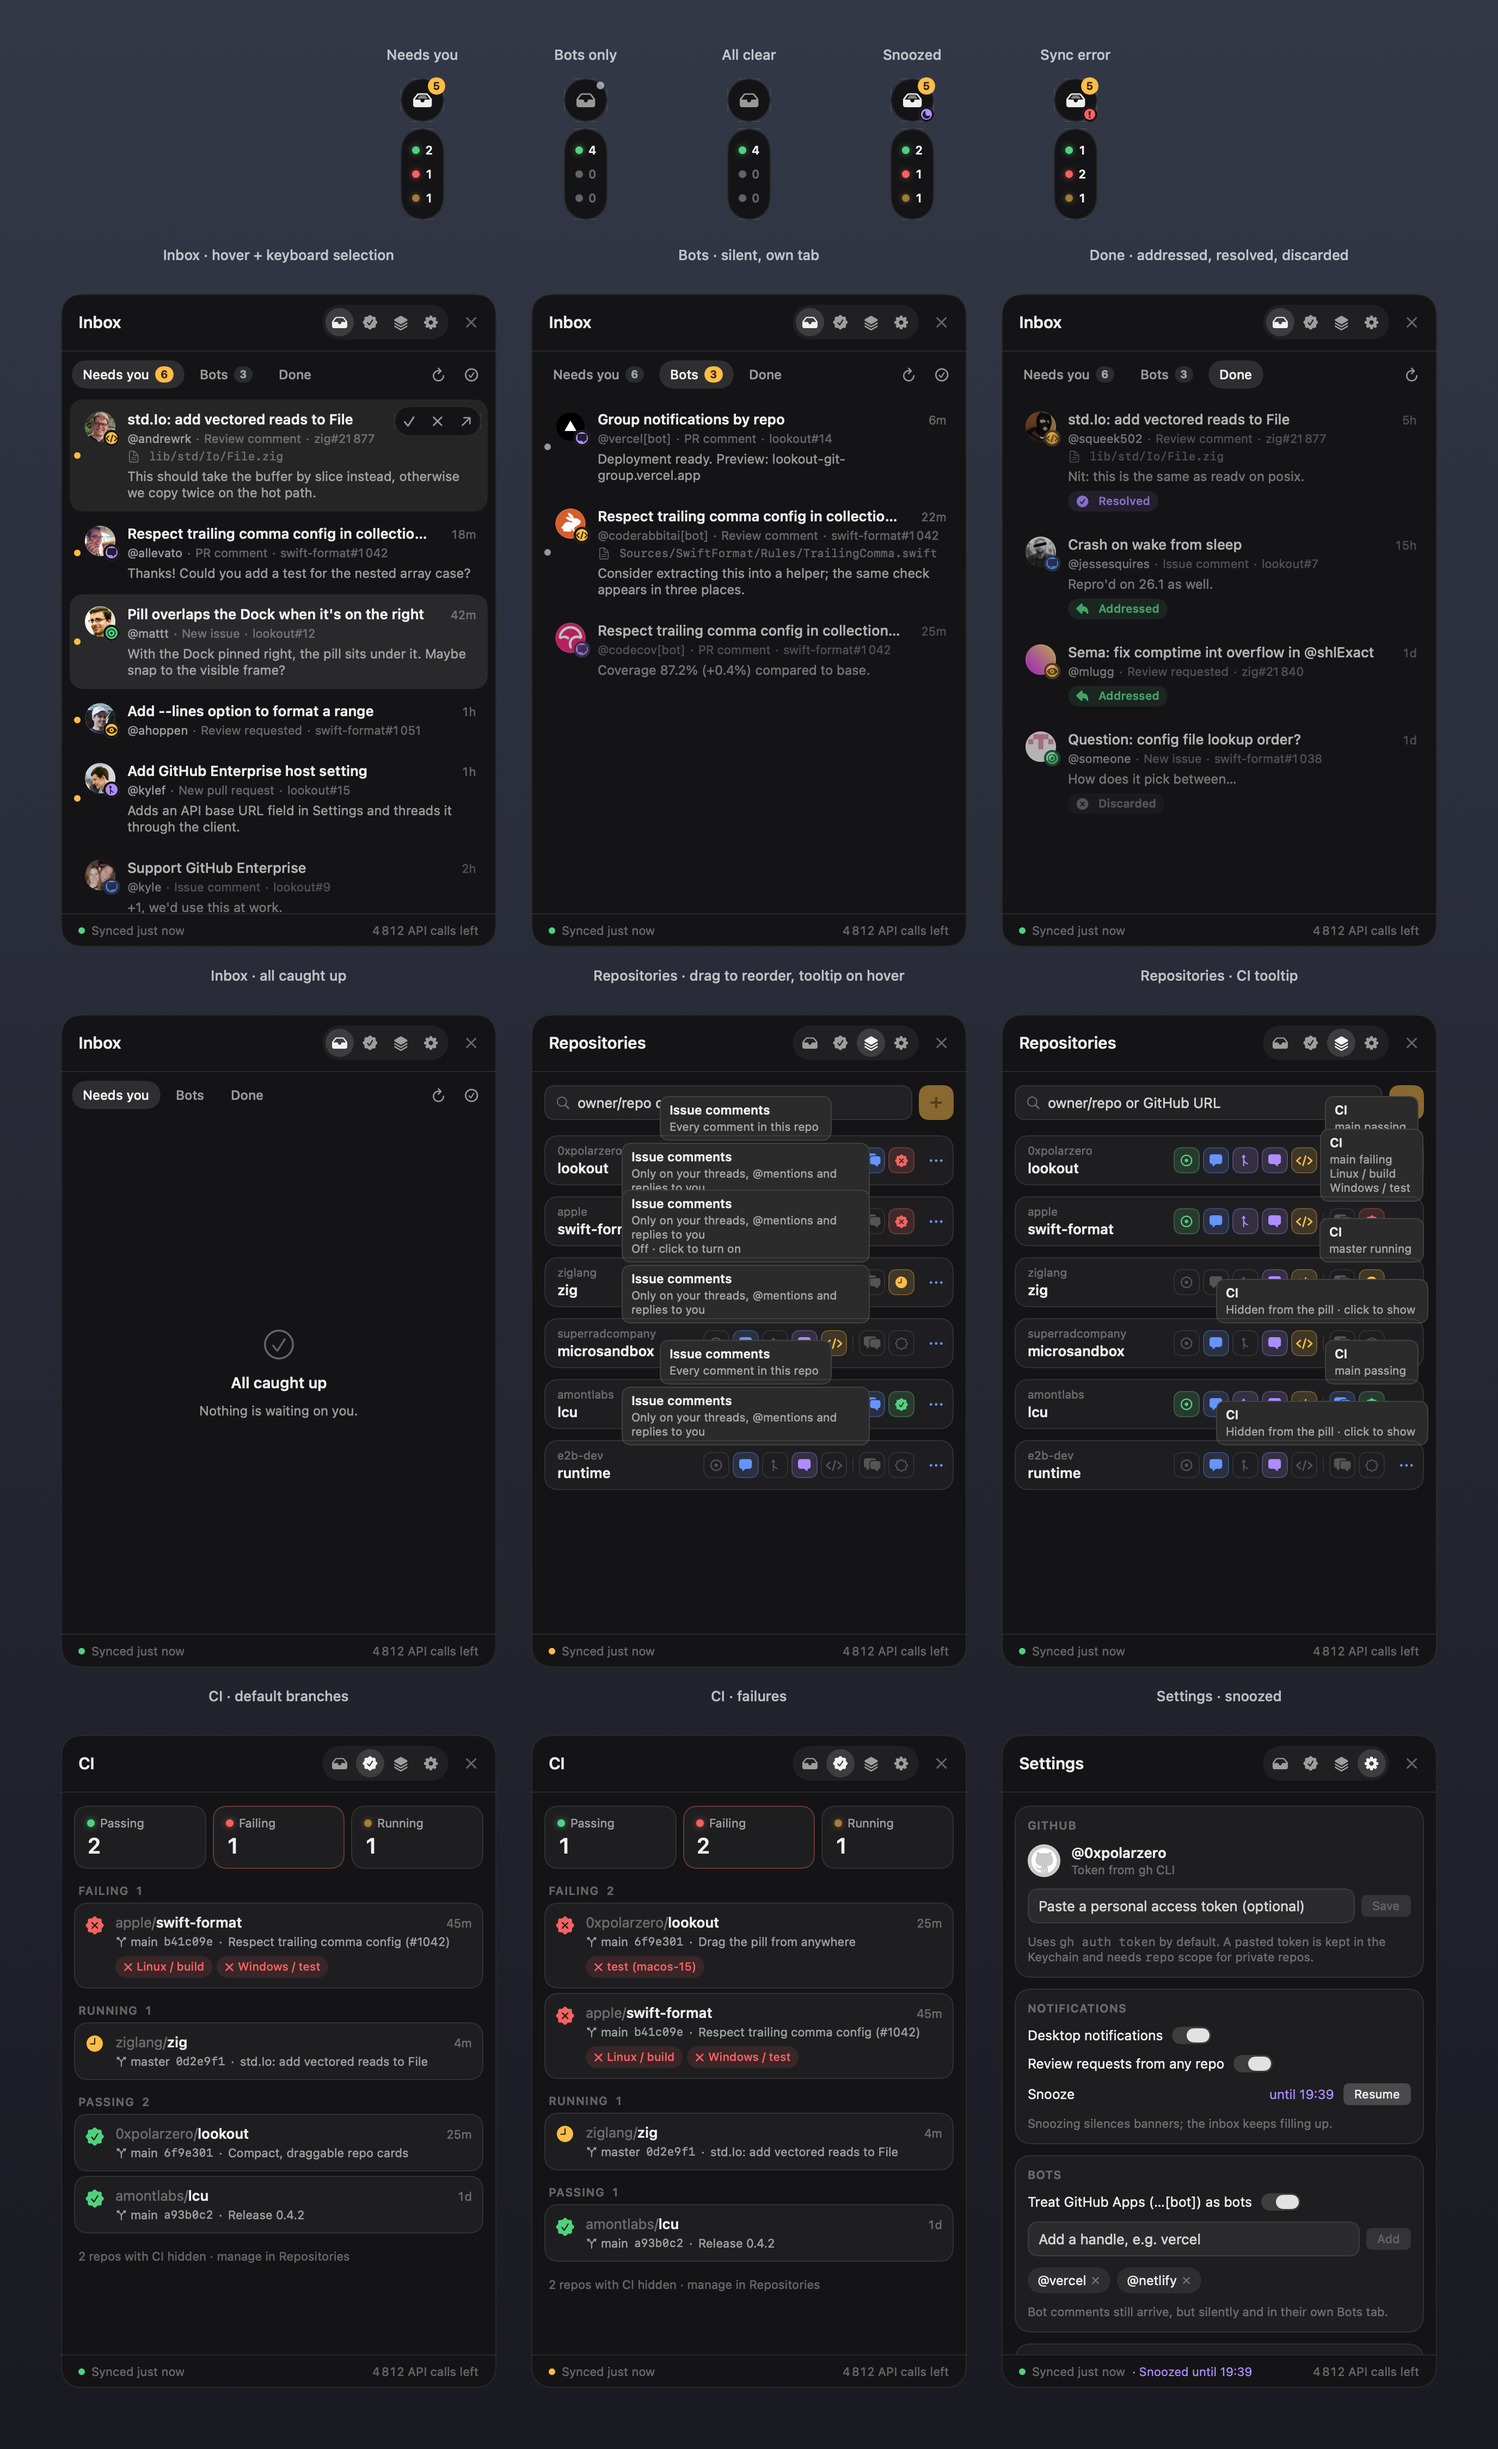
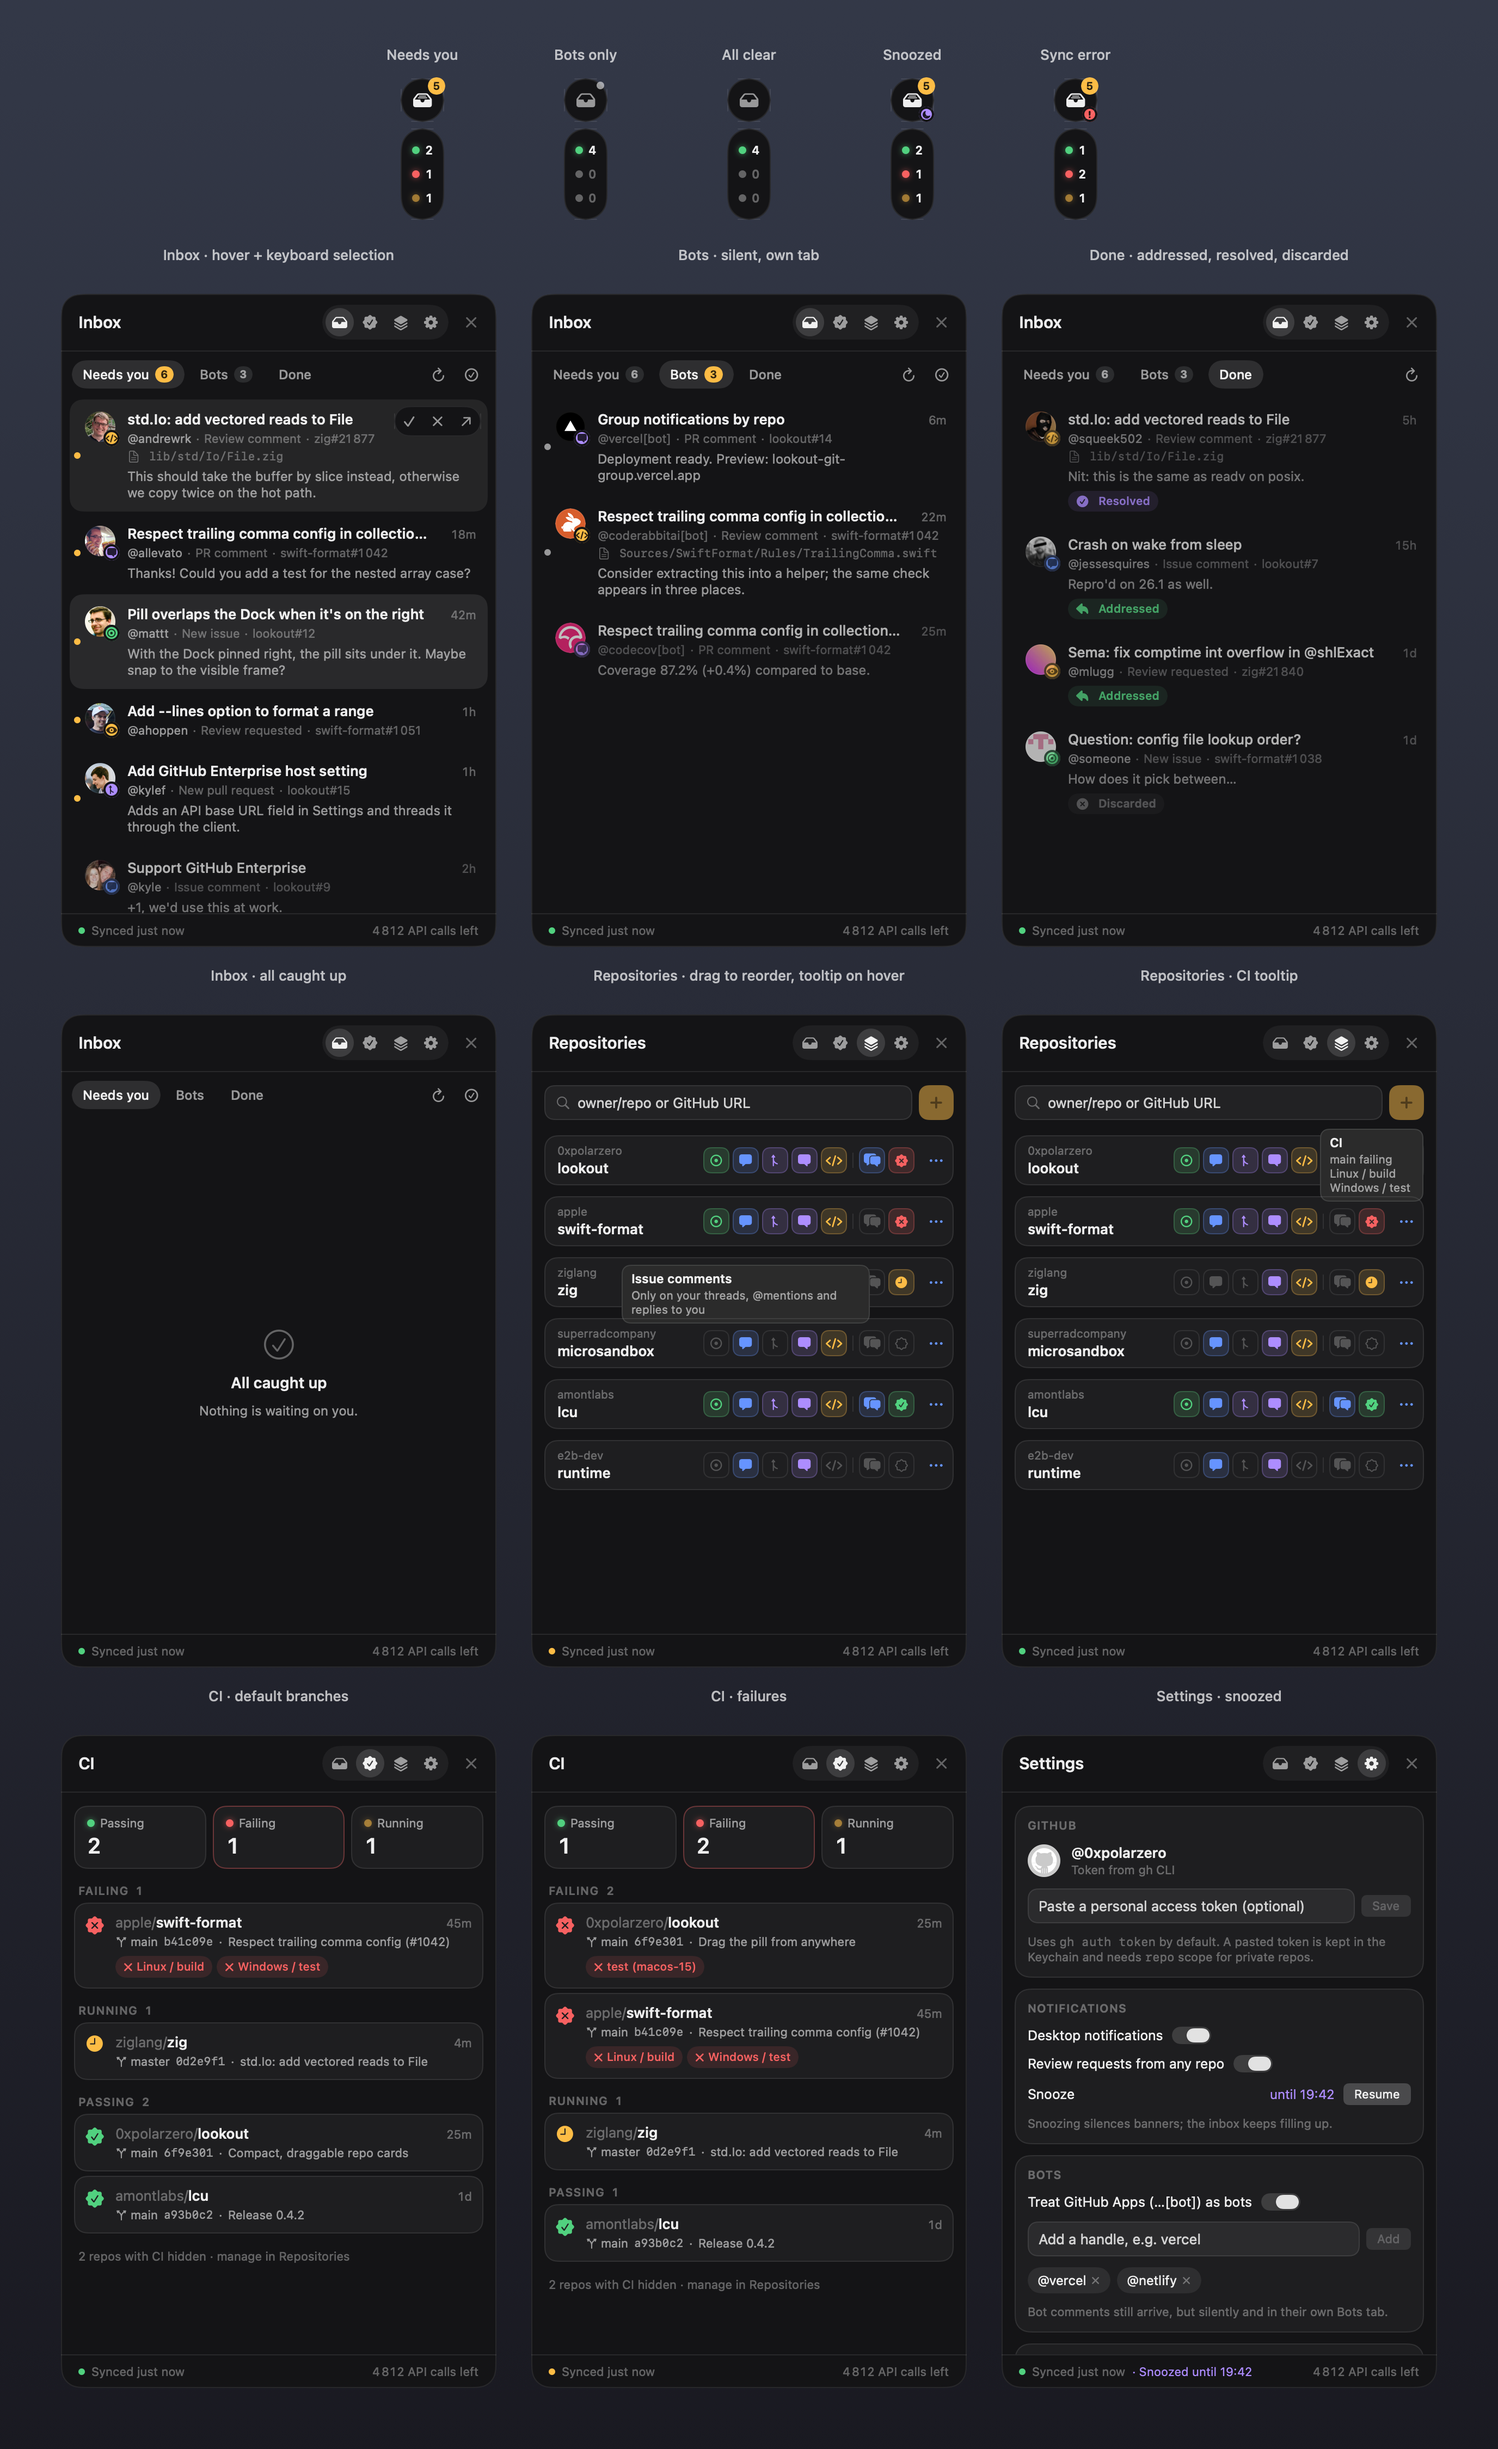
docs: Screenshots: show one tooltip per Repositories shot

Changed region(s): [[0.4062, 0.4356, 0.5625, 0.5911], [0.8125, 0.4978, 0.9375, 0.5911], [0.9062, 0.4356, 0.9375, 0.4667]]

diff --git a/Sources/Lookout/ReposView.swift b/Sources/Lookout/ReposView.swift
@@ -117,6 +117,7 @@ struct RepoCard: View {
     let store: Store
     @State private var dropTarget = false
     @State private var hover = false
+    @Environment(\.previewTip) private var previewTip
 
     var body: some View {
         HStack(spacing: 10) {
@@ -154,6 +155,10 @@ struct RepoCard: View {
                 .strokeBorder(dropTarget ? Theme.accent : Theme.stroke, lineWidth: dropTarget ? 1.5 : 1)
         )
         .onHover { hover = $0 }
+        // Screenshots target one badge as "owner/repo|Tooltip title"; only that card shows it.
+        .environment(\.previewTip, previewTip.flatMap { spec in
+            spec.hasPrefix(repo.fullName + "|") ? String(spec.dropFirst(repo.fullName.count + 1)) : nil
+        })
         .draggable(repo.fullName) {
             Text(repo.fullName)
                 .font(.system(size: 12, weight: .semibold))

diff --git a/Sources/Lookout/Demo.swift b/Sources/Lookout/Demo.swift
@@ -143,7 +143,8 @@ enum Snapshot {
             ui.filter = filter
             host(label, pill: false, PanelView(store: store(scenario), ui: ui, close: {})
                 .padding(16)
-                .environment(\.previewTip, label.contains("CI tooltip") ? "CI" : label.contains("tooltip") ? "Issue comments" : nil)
+                .environment(\.previewTip, label.contains("CI tooltip") ? "apple/swift-format|CI"
+                    : label.contains("tooltip") ? "superradcompany/microsandbox|Issue comments" : nil)
                 .environment(\.previewHover, Demo.hoverID)
                 .environment(\.previewSelection, Demo.selectedID))
         }
